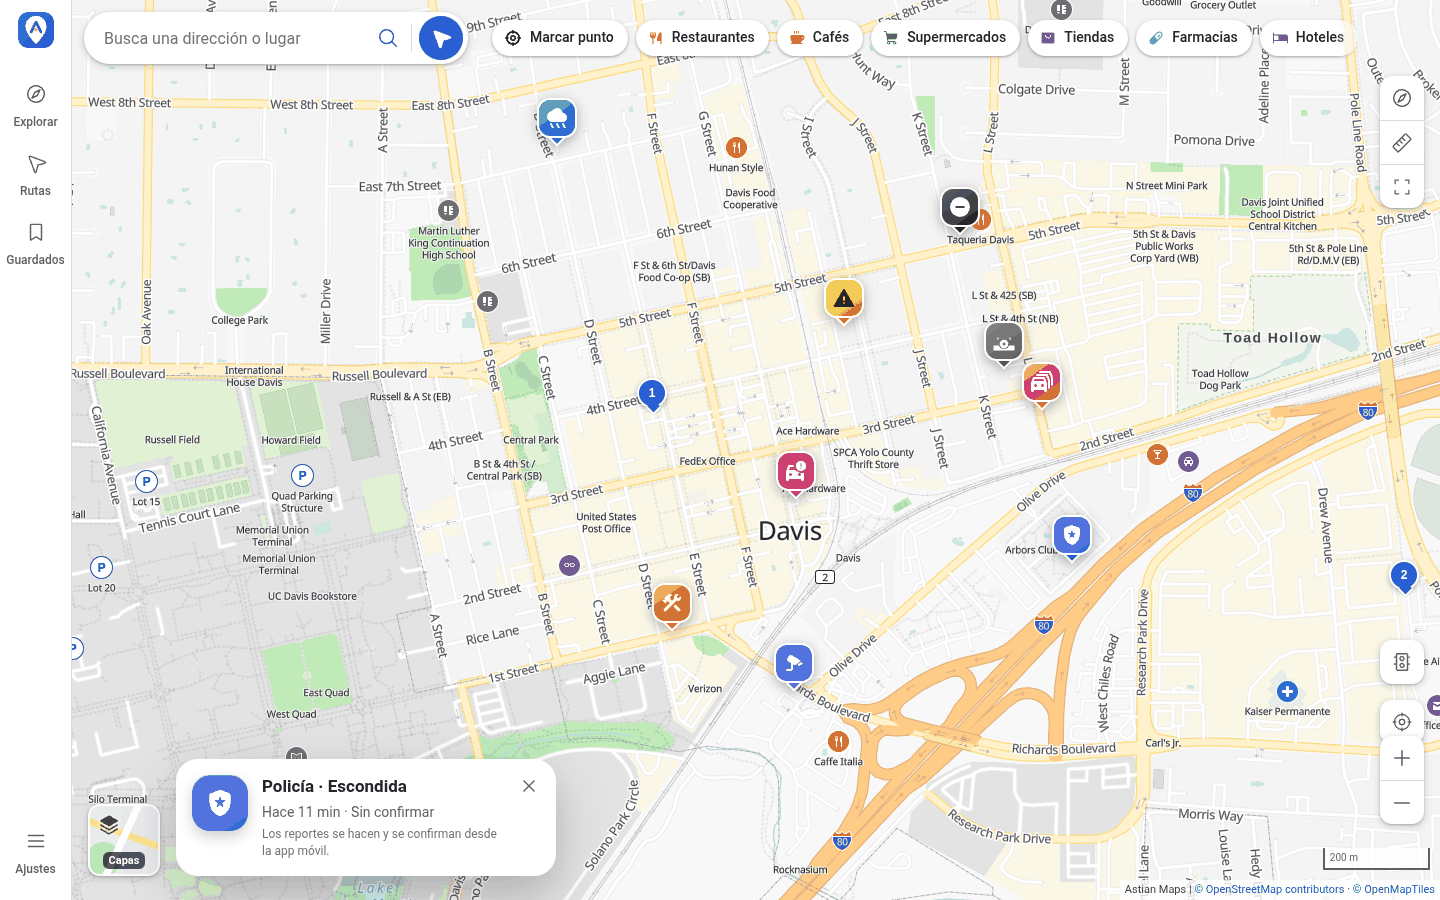
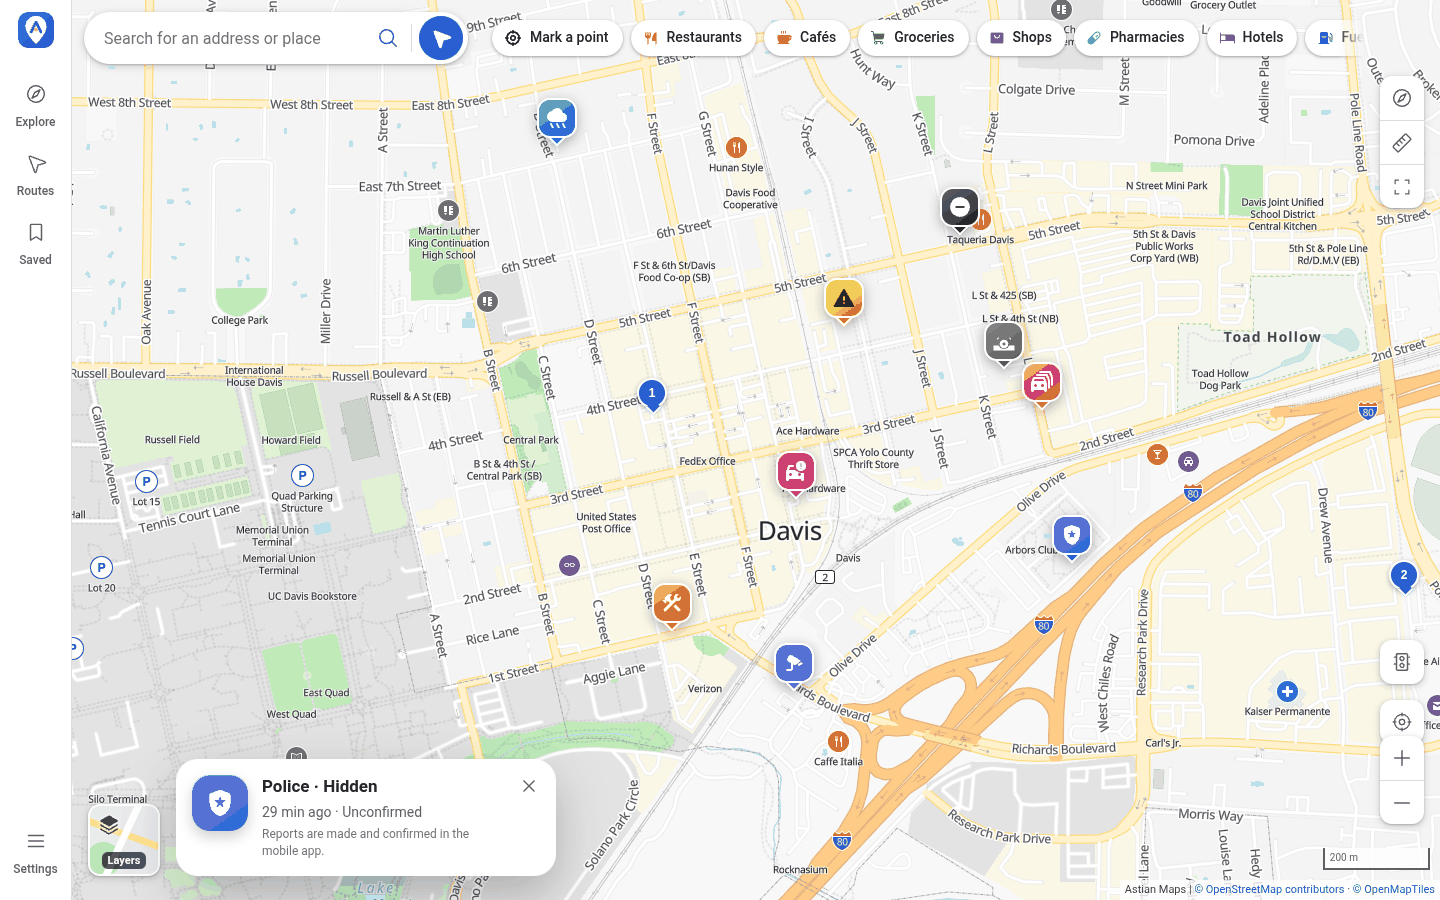
update readme

diff --git a/README.md b/README.md
@@ -1,149 +1,146 @@
 <div align="center">
 
-<img src="docs/logo.svg" width="120" alt="Logo de Astian Maps">
+<img src="docs/logo.svg" width="120" alt="Astian Maps logo">
 
 # Astian Maps Web
 
-Mapa web y planificador de rutas abierto. Búsqueda, lugares cercanos, rutas con paradas, capas, reportes de la comunidad en vivo y continuidad hacia la app Android.
+An open web map and route planner. Search, nearby places, routes with stops, map layers, live community reports and a hand-off to the Android app.
 
-[Astian Maps Android](https://github.com/goastian/astian-maps-android) · [Repositorio web](https://github.com/goastian/astian-maps-web)
+[Astian Maps Android](https://github.com/goastian/astian-maps-android) · [Web repository](https://github.com/goastian/astian-maps-web)
 
 </div>
 
-Cliente Next.js 15 y React 19 con render MapLibre GL, datos de OpenStreetMap y esquema
-OpenMapTiles. No usa SDK de ejecución de Google Maps ni de Mapbox. Forma parte del monorepo
-de Astian Maps: comparte contratos, traducciones, estilos y tokens de diseño con el gateway
-FastAPI (`services/api`) y con el cliente nativo Android.
+A Next.js 15 and React 19 client rendered with MapLibre GL, on OpenStreetMap data and the
+OpenMapTiles schema. It has no Google Maps or Mapbox runtime SDK. It is part of the Astian Maps
+monorepo and shares contracts, translations, styles and design tokens with the FastAPI gateway
+(`services/api`) and the native Android client.
 
-![Mapa web de Astian Maps con los reportes de la comunidad](docs/screenshots/web-map.png)
+![Astian Maps web map with community reports](docs/screenshots/web-map.png)
 
-## Qué hace
+## What it does
 
-- **Mapa vectorial** con temas claro, oscuro y de navegación, e interfaz en español, inglés,
-  francés y alemán.
-- **Búsqueda** de direcciones y lugares, y categorías de lugares cercanos (restaurantes, cafés,
-  supermercados, tiendas, farmacias, hoteles, combustible y cargadores).
-- **Ficha de lugar** con dirección, horario, teléfono, coordenadas, reseñas y atribución de los
-  datos abiertos.
-- **Rutas** en coche, bicicleta o a pie, con paradas intermedias, alternativas, opciones para
-  evitar peajes, autopistas y ferris, e indicaciones paso a paso.
-- **Reportes de la comunidad** en vivo sobre el mapa: tráfico, policía, accidentes, peligros,
-  baches, obras, cortes, clima y cámaras.
-- **Capas**: carretera, satélite, terreno, rutas ciclistas, cargadores eléctricos, tráfico en
-  tiempo real, edificios 3D y calidad del aire. Las capas de evaluación están desactivadas en
-  producción.
-- **Compartir y continuar en Android**: una URL canónica v1 lleva el plan completo (origen,
-  destino, paradas, modo, preferencias y capas) y se abre en la app.
-- **Modo de bajo consumo**, lugares guardados, medición de distancias y pantalla completa.
-- **Responsive**: panel lateral en escritorio y barra inferior en móvil.
+- **Vector map** with light, dark and navigation themes, and an interface in English, Spanish,
+  French and German.
+- **Search** for addresses and places, plus nearby categories: restaurants, cafes, groceries,
+  shops, pharmacies, hotels, fuel and chargers.
+- **Place page** with address, opening hours, phone, coordinates, reviews and the open-data
+  attribution.
+- **Routes** by car, bike or on foot, with intermediate stops, alternatives, options to avoid
+  tolls, highways and ferries, and step-by-step directions.
+- **Community reports** live on the map: traffic, police, crashes, hazards, potholes,
+  roadworks, closures, weather and cameras.
+- **Layers**: road, satellite, terrain, cycling routes, EV chargers, live traffic, 3D buildings
+  and air quality. Evaluation layers are off in production.
+- **Share and continue on Android**: a canonical v1 URL carries the whole plan (origin,
+  destination, stops, mode, preferences and layers) and opens it in the app.
+- **Low-data mode**, saved places, distance measuring and fullscreen.
+- **Responsive**: a side panel on desktop and a bottom bar on mobile.
 
-## Reportes de la comunidad
+## Community reports
 
-La web muestra los reportes activos de la zona visible y los mantiene al día con el flujo de
-eventos de la API (`/v1/incidents/stream`). Cada reporte tiene un color propio, se atenúa
-mientras nadie lo ha confirmado y se agrupa en círculos con contador al alejar el zoom. Un
-tramo con tráfico se pinta de ámbar a rojo oscuro según el nivel, un corte lleva franjas
-rojas y blancas, y unas obras, naranjas y blancas.
+The web shows the active reports in view and keeps them current from the API's event stream
+(`/v1/incidents/stream`). Each type has its own color, a report fades while nobody has
+confirmed it, and zoomed out they gather into counted circles. A jam paints its stretch of road
+amber to dark red by level, a closure is striped red and white, and roadworks orange and white.
 
-Los reportes **solo se leen en la web**. Se crean y se confirman desde
-[Astian Maps Android](https://github.com/goastian/astian-maps-android), y aparecen en el mapa
-web en cuanto se envían. No hay cuenta ni se guarda la IP: el servidor conserva únicamente un
-hash con sal de una clave aleatoria que el cliente renueva cada día.
+Reports are **read-only on the web**. They are made and confirmed in
+[Astian Maps Android](https://github.com/goastian/astian-maps-android) and show up on the web
+map as soon as they are sent. There is no account and no IP address is stored: the server keeps
+only a salted hash of a random key that the client replaces every day.
 
-![Tarjeta de un reporte de la comunidad en la web](docs/screenshots/web-incident.png)
+![A community report card on the web map](docs/screenshots/web-incident.png)
 
-Tipos de reporte: tráfico, policía, accidente, peligro, bache, obras, vía cerrada, clima y
-cámara.
+Report types: traffic, police, crash, hazard, pothole, roadworks, closure, weather and camera.
 
-## Capturas de la web
+## Web screenshots
 
-Todas las capturas usan datos de prueba en Davis, California.
+All screenshots use test data in Davis, California.
 
-| Búsqueda por categoría | Ficha de lugar |
+| Category search | Place page |
 | :---: | :---: |
-| ![Resultados de restaurantes cercanos](docs/screenshots/web-search.png) | ![Ficha de un lugar con horario y datos de contacto](docs/screenshots/web-place.png) |
+| ![Nearby restaurant results](docs/screenshots/web-search.png) | ![A place page with hours and contact details](docs/screenshots/web-place.png) |
 
-| Ruta con indicaciones | Capas del mapa |
+| Route with directions | Map layers |
 | :---: | :---: |
-| ![Ruta en coche entre dos lugares](docs/screenshots/web-route.png) | ![Selector de capas](docs/screenshots/web-layers.png) |
+| ![A car route between two places](docs/screenshots/web-route.png) | ![The layer picker](docs/screenshots/web-layers.png) |
 
-### En el móvil
+### On mobile
 
 <table>
   <tr>
-    <td align="center"><img src="docs/screenshots/web-mobile-map.png" width="280" alt="Mapa web en pantalla móvil"></td>
-    <td align="center"><img src="docs/screenshots/web-mobile-incident.png" width="280" alt="Reporte de la comunidad en pantalla móvil"></td>
+    <td align="center"><img src="docs/screenshots/web-mobile-map.png" width="280" alt="Web map on a phone screen"></td>
+    <td align="center"><img src="docs/screenshots/web-mobile-incident.png" width="280" alt="A community report on a phone screen"></td>
   </tr>
   <tr>
-    <td align="center">Mapa con reportes y barra inferior</td>
-    <td align="center">Detalle de un reporte</td>
+    <td align="center">Map with reports and bottom bar</td>
+    <td align="center">Report details</td>
   </tr>
 </table>
 
 ## Astian Maps Android
 
-El mismo mapa, las mismas rutas y los mismos reportes, en una app nativa: Kotlin, Jetpack
-Compose y MapLibre Native, sin Google SDK ni Play Services. Añade navegación giro a giro con
-guía de carriles y voz local, regiones sin conexión (mapa, búsqueda y rutas), transporte
-público, Android Auto y el botón para **hacer y confirmar reportes** mientras conduces.
+The same map, routes and reports in a native app: Kotlin, Jetpack Compose and MapLibre Native,
+with no Google SDK and no Play Services. It adds turn-by-turn navigation with lane guidance and
+on-device voice, offline regions (map, search and routing), public transit, Android Auto and the
+button to **make and confirm reports** while you drive.
 
-Repositorio: **[goastian/astian-maps-android](https://github.com/goastian/astian-maps-android)**
-(paquete `org.astian.suite.maps`).
+Repository: **[goastian/astian-maps-android](https://github.com/goastian/astian-maps-android)**
+(package `org.astian.suite.maps`).
 
 <table>
   <tr>
-    <td align="center"><img src="docs/screenshots/android-community-map.png" width="220" alt="Mapa Android con reportes de la comunidad"></td>
-    <td align="center"><img src="docs/screenshots/android-community-report.png" width="220" alt="Tarjeta de un reporte en Android"></td>
-    <td align="center"><img src="docs/screenshots/android-report-picker.png" width="220" alt="Selector para reportar en Android"></td>
-    <td align="center"><img src="docs/screenshots/android-community-dark.png" width="220" alt="Mapa oscuro con todos los tipos de reporte"></td>
+    <td align="center"><img src="docs/screenshots/android-community-map.png" width="220" alt="Android map with community reports"></td>
+    <td align="center"><img src="docs/screenshots/android-community-report.png" width="220" alt="A report card on Android"></td>
+    <td align="center"><img src="docs/screenshots/android-report-picker.png" width="220" alt="The report picker on Android"></td>
+    <td align="center"><img src="docs/screenshots/android-community-dark.png" width="220" alt="Dark map showing every report type"></td>
   </tr>
   <tr>
-    <td align="center">Reportes en el mapa</td>
-    <td align="center">Confirmar un reporte</td>
-    <td align="center">Hacer un reporte</td>
-    <td align="center">Tema oscuro</td>
+    <td align="center">Reports on the map</td>
+    <td align="center">Confirm a report</td>
+    <td align="center">Make a report</td>
+    <td align="center">Dark theme</td>
   </tr>
 </table>
 
 <table>
   <tr>
-    <td align="center"><img src="docs/screenshots/android-map.png" width="220" alt="Mapa de la app Android"></td>
-    <td align="center"><img src="docs/screenshots/android-place.png" width="220" alt="Ficha de un lugar en Android"></td>
-    <td align="center"><img src="docs/screenshots/android-drive-directions.png" width="220" alt="Ruta en coche en Android"></td>
-    <td align="center"><img src="docs/screenshots/android-navigation-alert.png" width="220" alt="Navegación giro a giro con aviso de reporte"></td>
+    <td align="center"><img src="docs/screenshots/android-map.png" width="220" alt="The Android app map"></td>
+    <td align="center"><img src="docs/screenshots/android-place.png" width="220" alt="A place page on Android"></td>
+    <td align="center"><img src="docs/screenshots/android-drive-directions.png" width="220" alt="Drive directions on Android"></td>
+    <td align="center"><img src="docs/screenshots/android-navigation-alert.png" width="220" alt="Turn-by-turn navigation with a report ahead"></td>
   </tr>
   <tr>
-    <td align="center">Mapa</td>
-    <td align="center">Lugar</td>
-    <td align="center">Ruta</td>
-    <td align="center">Navegación con aviso</td>
+    <td align="center">Map</td>
+    <td align="center">Place</td>
+    <td align="center">Directions</td>
+    <td align="center">Navigation with an alert</td>
   </tr>
 </table>
 
 <table>
   <tr>
-    <td align="center"><img src="docs/screenshots/android-layers.png" width="220" alt="Panel de capas en Android"></td>
-    <td align="center"><img src="docs/screenshots/android-transit.png" width="220" alt="Ruta en transporte público en Android"></td>
-    <td align="center"><img src="docs/screenshots/android-map-light.png" width="220" alt="Mapa claro en Android"></td>
+    <td align="center"><img src="docs/screenshots/android-layers.png" width="220" alt="The layers panel on Android"></td>
+    <td align="center"><img src="docs/screenshots/android-transit.png" width="220" alt="A transit route on Android"></td>
+    <td align="center"><img src="docs/screenshots/android-map-light.png" width="220" alt="The light map on Android"></td>
   </tr>
   <tr>
-    <td align="center">Tipos de mapa y capas</td>
-    <td align="center">Transporte público</td>
-    <td align="center">Tema claro</td>
+    <td align="center">Map types and layers</td>
+    <td align="center">Public transit</td>
+    <td align="center">Light theme</td>
   </tr>
 </table>
 
-### De la web a Android
+### From the web to Android
 
-El botón **Continuar en Android** del planificador abre el mismo plan en la app. La URL v1
-usa los mismos nombres de parámetros en la web y en Android, y la asociación de enlaces HTTPS
-se sirve en `/.well-known/assetlinks.json`.
+The planner's **Continue on Android** button opens the same plan in the app. The v1 URL uses
+the same parameter names on the web and on Android, and the HTTPS link association is served at
+`/.well-known/assetlinks.json`.
 
-## Desarrollo
+## Development
 
-Requisitos: Node.js 22+ y pnpm 10+. Este paquete depende de paquetes del monorepo
-(`@astian-maps/contracts`, `i18n`, `design-tokens` y `@astian/map-style`), así que se
-ejecuta desde el monorepo.
+Requirements: Node.js 22+ and pnpm 10+. This package depends on monorepo packages
+(`@astian-maps/contracts`, `i18n`, `design-tokens` and `@astian/map-style`), so it runs from
+inside the monorepo.
 
 ```bash
 cp .env.example .env.local
@@ -151,33 +148,33 @@ pnpm install --frozen-lockfile
 pnpm --filter @astian-maps/web dev      # http://localhost:3000
 ```
 
-| Comando | Qué hace |
+| Command | What it does |
 | --- | --- |
-| `pnpm dev` | Servidor de desarrollo. Compila y sincroniza estilos, worker de MapLibre y calibración antes de arrancar. |
-| `pnpm build` | Compilación de producción. |
-| `pnpm start` | Sirve la compilación de producción. |
-| `pnpm typecheck` | Comprobación de tipos con `tsc --noEmit`. |
-| `pnpm test` | Pruebas con Vitest. |
+| `pnpm dev` | Dev server. Builds and syncs the styles, the MapLibre worker and the calibration first. |
+| `pnpm build` | Production build. |
+| `pnpm start` | Serves the production build. |
+| `pnpm typecheck` | Type check with `tsc --noEmit`. |
+| `pnpm test` | Tests with Vitest. |
 
-### Configuración
+### Configuration
 
-Las variables están documentadas en [`.env.example`](.env.example). Las principales:
+Every variable is documented in [`.env.example`](.env.example). The main ones:
 
-| Variable | Uso |
+| Variable | Use |
 | --- | --- |
-| `NEXT_PUBLIC_API_URL` | API de Astian Maps (`http://localhost:8000/v1` en local). Sirve búsqueda, rutas y reportes. |
-| `NEXT_PUBLIC_MAPS_WEB_URL` | Origen público para enlaces HTTPS y rutas compartidas. |
-| `ASTIAN_TILE_SERVER_URL` | Origen de Martin que usa el proxy `/tiles`. |
-| `ASTIAN_ANDROID_SHA256_CERT_FINGERPRINTS` | Huellas del certificado de release para los App Links. Vacío en local. |
-| `NEXT_PUBLIC_MAP_START` | Cámara inicial como `latitud,longitud,zoom`. |
+| `NEXT_PUBLIC_API_URL` | The Astian Maps API (`http://localhost:8000/v1` locally). Serves search, routing and reports. |
+| `NEXT_PUBLIC_MAPS_WEB_URL` | Public origin for HTTPS links and shared routes. |
+| `ASTIAN_TILE_SERVER_URL` | Martin origin used by the `/tiles` proxy. |
+| `ASTIAN_ANDROID_SHA256_CERT_FINGERPRINTS` | Release certificate fingerprints for App Links. Empty locally. |
+| `NEXT_PUBLIC_MAP_START` | Initial camera as `latitude,longitude,zoom`. |
 
-`.env.local` queda fuera del repositorio. Las capas de evaluación (satélite, terreno y rutas
-ciclistas) y los tiles comunitarios son solo para desarrollo y un proceso con
-`NODE_ENV=production` los rechaza.
+`.env.local` stays out of the repository. The evaluation layers (satellite, terrain and cycling
+routes) and the community tiles are for development only, and a process with
+`NODE_ENV=production` rejects them.
 
-### Probar los reportes de la comunidad en local
+### Try community reports locally
 
-Con la API local en marcha (`services/api`), se puede crear un reporte de prueba:
+With the local API running (`services/api`), create a test report:
 
 ```bash
 curl -X POST http://localhost:8000/v1/incidents \
@@ -185,23 +182,23 @@ curl -X POST http://localhost:8000/v1/incidents \
   -d '{"type":"police","subtype":"hidden","coordinates":{"latitude":38.543,"longitude":-121.739},"reporterKey":"local-dev-reporter-key","source":"android"}'
 ```
 
-Aparece en el mapa web en unos segundos. Para probarlo desde un teléfono por USB, el script
-`scripts/dev-phone.sh` del monorepo redirige los puertos 8000 y 3000 con `adb reverse`.
+It appears on the web map within seconds. To try it from a phone over USB, the monorepo's
+`scripts/dev-phone.sh` forwards ports 8000 and 3000 with `adb reverse`.
 
-## Estructura
+## Layout
 
 ```text
-app/          Rutas de Next.js: mapa, planificador, proxy de tiles y App Links
-components/   MapExplorer, MapCanvas, PlaceDetail y CommunityIncidents
-lib/          API, rutas compartibles, capas, estilos, incidentes y pruebas
-public/       Estilos, sprites, glifos, iconos y los SVG de cada tipo de reporte
-scripts/      Sincronización de estilos, worker de MapLibre y calibración
-docs/         Logo y capturas de este README
+app/          Next.js routes: map, planner, tile proxy and App Links
+components/   MapExplorer, MapCanvas, PlaceDetail and CommunityIncidents
+lib/          API client, shareable routes, layers, styles, incidents and tests
+public/       Styles, sprites, glyphs, icons and the SVG for each report type
+scripts/      Style sync, MapLibre worker and calibration
+docs/         Logo and the screenshots in this README
 ```
 
-## Atribución y licencia
+## Attribution and license
 
-Datos de [OpenStreetMap](https://www.openstreetmap.org/copyright) (ODbL) y teselas
-[OpenMapTiles](https://openmaptiles.org/). Licencia Apache-2.0. La app Android es una
-derivada de Vela y se distribuye bajo GPL-3.0; consulta su
+Data from [OpenStreetMap](https://www.openstreetmap.org/copyright) (ODbL) and
+[OpenMapTiles](https://openmaptiles.org/) tiles. Licensed under Apache-2.0. The Android app is a
+derivative of Vela and is distributed under GPL-3.0; see its
 [`NOTICE.md`](https://github.com/goastian/astian-maps-android/blob/main/NOTICE.md).
